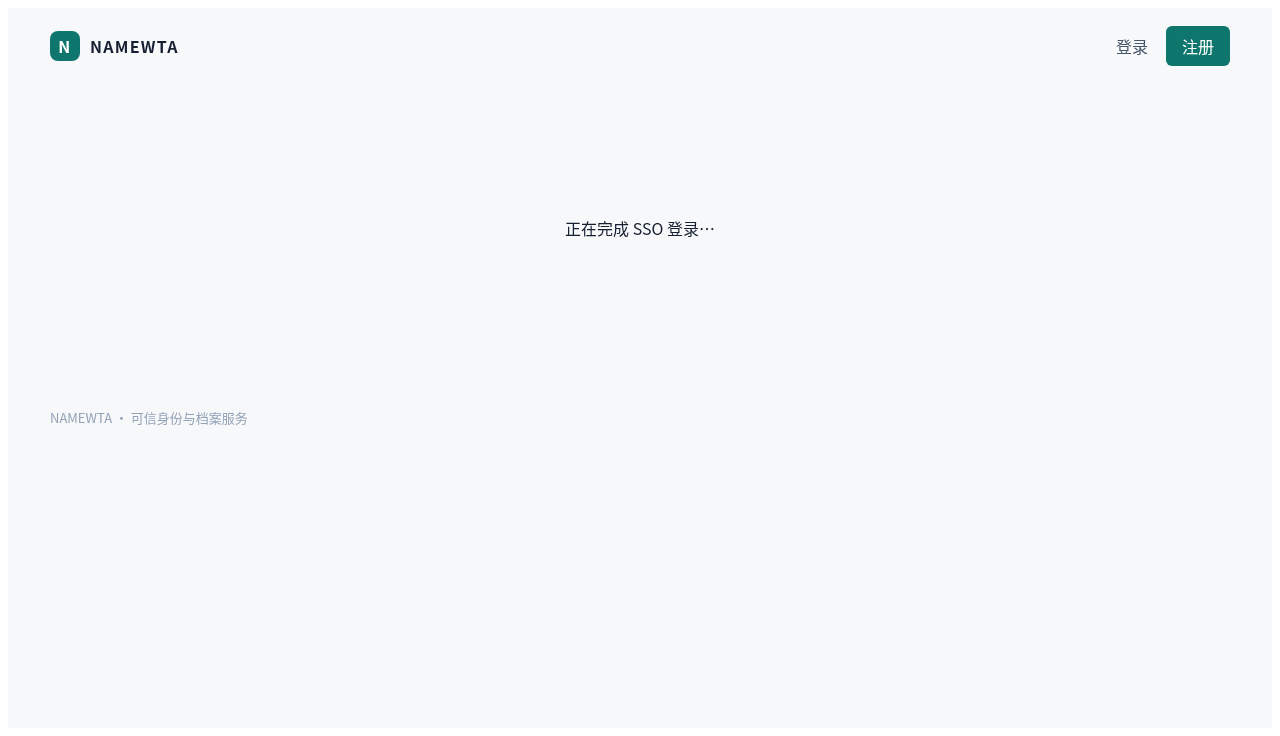
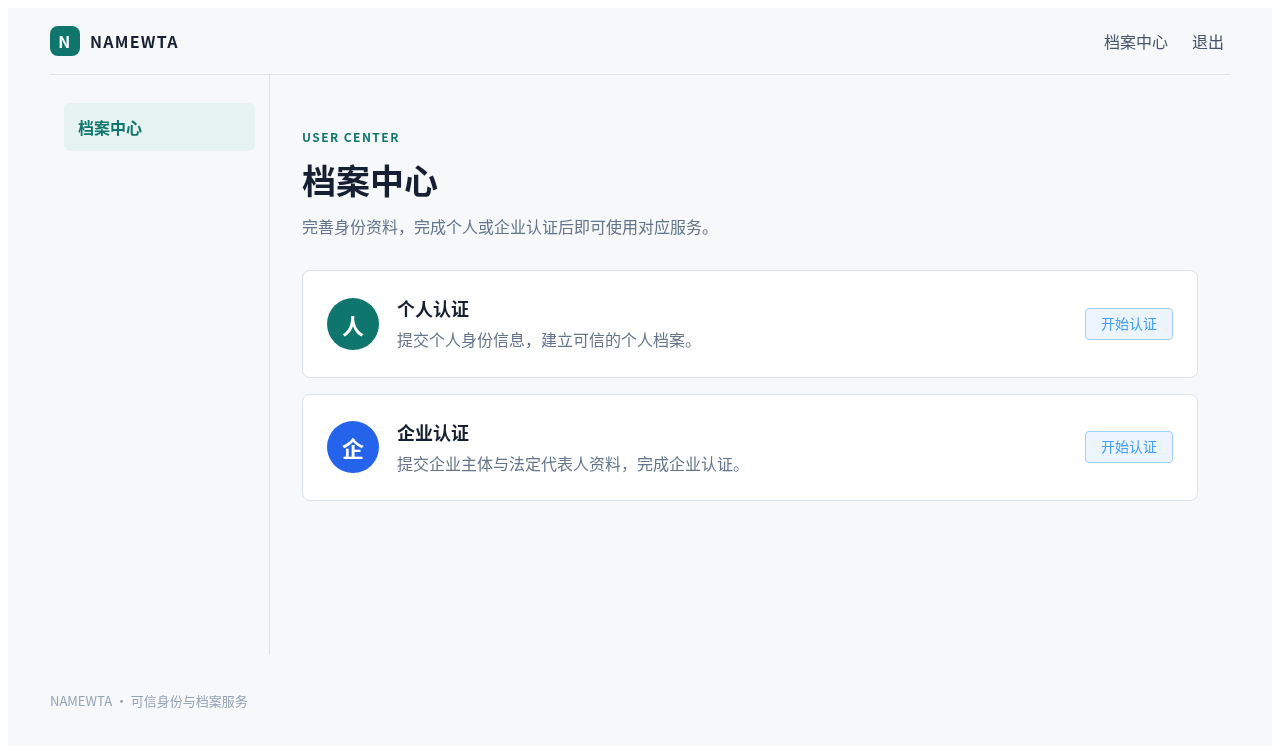
fix(sso): complete home login after FirstParty SSO
Home client access_path /home/** blocked getInfo/getRouters. Union
identity and profile APIs onto home tokens, write the callback token
into Pinia, and drop breadcrumb noRedirect so /profile is a real page.
E2E now waits off /sso/callback and asserts 退出 without 没有访问权限.

diff --git a/frontend/e2e/sso-three-gates.spec.ts b/frontend/e2e/sso-three-gates.spec.ts
@@ -100,13 +100,36 @@ test.describe('SSO three hard gates', () => {
     await expect(homeSso).toHaveClass(/is-circle/);
     await expect(homeSso.locator('svg')).toBeVisible();
     await homeSso.click();
-    await home.waitForURL(/127\.0\.0\.1:4176/, { timeout: 20_000 });
+    const sawSsoWeb = home
+      .waitForURL(/127\.0\.0\.1:4176/, { timeout: 20_000 })
+      .then(async () => {
+        await expect(home.locator('input[name="password"]')).toHaveCount(0);
+      })
+      .catch(() => undefined);
+    await home.waitForURL(url => {
+      const parsed = new URL(url);
+      return parsed.port === '4175';
+    }, { timeout: 30_000 });
+    await sawSsoWeb;
     await expect(home.locator('input[name="password"]')).toHaveCount(0);
-    await home.screenshot({ path: shot('sso-ac002-reuse-no-password.png'), fullPage: true });
-    await home.waitForURL(/127\.0\.0\.1:4175/, { timeout: 30_000 });
+    await home.waitForURL(url => {
+      const parsed = new URL(url);
+      return (
+        parsed.port === '4175' &&
+        parsed.pathname !== '/login' &&
+        parsed.pathname !== '/sso/callback' &&
+        !parsed.pathname.endsWith('/sso/callback')
+      );
+    }, { timeout: 30_000 });
     await expect
       .poll(async () => home.evaluate(() => window.localStorage.getItem('Home-Token')), { timeout: 20_000 })
       .toBeTruthy();
+    const homeHeader = home.locator('header');
+    await expect(homeHeader.getByRole('button', { name: '退出' })).toBeVisible({ timeout: 20_000 });
+    await expect(homeHeader.getByRole('link', { name: '登录', exact: true })).toHaveCount(0);
+    await expect(home.getByText('没有访问权限')).toHaveCount(0);
+    await expect(home).toHaveURL(/\/profile/);
+    await home.screenshot({ path: shot('sso-ac002-reuse-no-password.png'), fullPage: true });
     const homeToken = String(await home.evaluate(() => window.localStorage.getItem('Home-Token')));
     const homeClient = homeClientFromApi || extraClientId(homeToken);
     expect(adminClient).not.toEqual(homeClient);
@@ -119,6 +142,8 @@ test.describe('SSO three hard gates', () => {
       }
     });
     const crossBody = (await cross.json()) as { code?: number; msg?: string };
+    await expect(homeHeader.getByRole('button', { name: '退出' })).toBeVisible();
+    await expect(home.getByText('没有访问权限')).toHaveCount(0);
     await home.screenshot({ path: shot('sso-ac003-client-isolation.png'), fullPage: true });
     expect(crossBody.code).not.toBe(200);
     expect(adminClient).toBe(adminClientId);

diff --git a/frontend/apps/home-web/src/store/user.ts b/frontend/apps/home-web/src/store/user.ts
@@ -11,7 +11,15 @@ export const useUserStore = defineStore('home-user', () => {
   const nickname = ref('');
   const userId = ref<string | number>('');
   const login = async (input: Parameters<typeof identityAccessService.login>[0]) => { const value = await identityAccessService.login(input); token.value = value.accessToken; };
-  const getInfo = async () => { const info = await identityAccessService.getInfo(); const user = info.user as UserVO; roles.value = [...info.roles]; permissions.value = [...info.permissions]; nickname.value = user.nickName || user.userName; userId.value = user.userId; };
+  const getInfo = async () => {
+    token.value = getToken();
+    const info = await identityAccessService.getInfo();
+    const user = info.user as UserVO;
+    roles.value = [...info.roles];
+    permissions.value = [...info.permissions];
+    nickname.value = user.nickName || user.userName;
+    userId.value = user.userId;
+  };
   const logout = async () => { try { await identityAccessService.logout(); } finally { token.value = ''; roles.value = []; permissions.value = []; removeToken(); } };
   return { token, roles, permissions, nickname, userId, login, getInfo, logout, session };
 });

diff --git a/frontend/apps/home-web/src/views/SsoCallbackPage.test.ts b/frontend/apps/home-web/src/views/SsoCallbackPage.test.ts
@@ -1,0 +1,14 @@
+import { readFileSync } from 'node:fs';
+import { dirname, resolve } from 'node:path';
+import { fileURLToPath } from 'node:url';
+import { describe, expect, it } from 'vitest';
+
+const source = readFileSync(resolve(dirname(fileURLToPath(import.meta.url)), 'SsoCallbackPage.vue'), 'utf8');
+
+describe('home SSO callback', () => {
+  it('writes the business token into both session and the user store', () => {
+    expect(source).toContain('session.setToken(result.accessToken)');
+    expect(source).toContain('userStore.token = result.accessToken');
+    expect(source).toContain("router.replace('/profile')");
+  });
+});

diff --git a/frontend/apps/home-web/src/router/serverMenuAdapter.ts b/frontend/apps/home-web/src/router/serverMenuAdapter.ts
@@ -27,7 +27,7 @@ export function adaptServerMenuRoutes(routes: readonly ServerRouteNode<HomeRoute
       ...(route.alwaysShow !== undefined ? { alwaysShow: route.alwaysShow } : {}),
       ...(route.ext !== undefined ? { ext: route.ext } : {}),
       ...(route.permissions !== undefined ? { permissions: [...route.permissions] } : {}),
-      ...(route.redirect ? { redirect: route.redirect } : {}),
+      ...(route.redirect && route.redirect !== 'noRedirect' ? { redirect: route.redirect } : {}),
       ...(route.query ? { query: route.query } : {})
     };
     if (route.children) {

diff --git a/frontend/apps/home-web/src/views/SsoCallbackPage.vue b/frontend/apps/home-web/src/views/SsoCallbackPage.vue
@@ -6,13 +6,16 @@ import { onMounted } from 'vue';
 import { useRouter } from 'vue-router';
 import { homeSso } from '@/application/sso';
 import { session } from '@/application/session';
+import { useUserStore } from '@/store/user';
 
 const router = useRouter();
+const userStore = useUserStore();
 
 onMounted(async () => {
   try {
     const result = await homeSso.handleCallback(window.location.search);
     session.setToken(result.accessToken);
+    userStore.token = result.accessToken;
     await router.replace('/profile');
   } catch {
     await router.replace('/login');

diff --git a/frontend/apps/home-web/src/store/user.sso-token.test.ts b/frontend/apps/home-web/src/store/user.sso-token.test.ts
@@ -1,0 +1,13 @@
+import { readFileSync } from 'node:fs';
+import { dirname, resolve } from 'node:path';
+import { fileURLToPath } from 'node:url';
+import { describe, expect, it } from 'vitest';
+
+const source = readFileSync(resolve(dirname(fileURLToPath(import.meta.url)), 'user.ts'), 'utf8');
+
+describe('home user store SSO session', () => {
+  it('hydrates pinia token from Home-Token before getInfo', () => {
+    expect(source).toContain('token.value = getToken()');
+    expect(source).toContain('identityAccessService.getInfo()');
+  });
+});

diff --git a/frontend/apps/home-web/src/router/serverMenuAdapter.test.ts b/frontend/apps/home-web/src/router/serverMenuAdapter.test.ts
@@ -1,0 +1,12 @@
+import { readFileSync } from 'node:fs';
+import { dirname, resolve } from 'node:path';
+import { fileURLToPath } from 'node:url';
+import { describe, expect, it } from 'vitest';
+
+const source = readFileSync(resolve(dirname(fileURLToPath(import.meta.url)), 'serverMenuAdapter.ts'), 'utf8');
+
+describe('adaptServerMenuRoutes', () => {
+  it('does not treat breadcrumb noRedirect as a Vue route redirect', () => {
+    expect(source).toContain("route.redirect !== 'noRedirect'");
+  });
+});

diff --git a/backend/wta-modules/wta-system/src/main/java/org/namewta/system/sso/ClientAccessPaths.java b/backend/wta-modules/wta-system/src/main/java/org/namewta/system/sso/ClientAccessPaths.java
@@ -1,0 +1,70 @@
+package org.namewta.system.sso;
+
+import org.namewta.common.core.utils.StringUtils;
+
+import java.util.ArrayList;
+import java.util.List;
+
+/**
+ * 将 sys_client.access_path 解析为 Token extras 使用的规则。
+ * home-web 登录后会请求身份接口，不能只留不存在的 {@code /home/**}。
+ */
+public final class ClientAccessPaths {
+
+    static final String IDENTITY_GET_INFO = "/system/user/getInfo";
+    static final String IDENTITY_MENUS = "/system/menu/getRouters";
+    static final String AUTH_LOGOUT = "/auth/logout";
+    static final String PROFILE = "/profile/**";
+
+    private static final String SEPARATOR_REGEX = "[,;\\r\\n]+";
+    private static final List<String> HOME_IDENTITY_APIS = List.of(
+        IDENTITY_GET_INFO, IDENTITY_MENUS, AUTH_LOGOUT, PROFILE);
+
+    private ClientAccessPaths() {
+    }
+
+    /**
+     * home 客户端在已有白名单上并入身份/档案接口；其它 Client 原样返回。
+     *
+     * @param clientKey  客户端 key
+     * @param accessPath 已配置白名单
+     * @return Token extras 使用的规则串
+     */
+    public static String resolve(String clientKey, String accessPath) {
+        if (!"home".equalsIgnoreCase(StringUtils.trim(clientKey))) {
+            return accessPath;
+        }
+        if (StringUtils.isBlank(accessPath)) {
+            return accessPath;
+        }
+        List<String> rules = new ArrayList<>(StringUtils.str2List(accessPath, SEPARATOR_REGEX, true, true));
+        for (String needed : HOME_IDENTITY_APIS) {
+            if (!allows(String.join(",", rules), sampleRequest(needed))) {
+                rules.add(needed);
+            }
+        }
+        return String.join(",", rules);
+    }
+
+    /**
+     * 与 {@code SecurityConfig} 相同的路径匹配：空白名单表示不限制。
+     *
+     * @param accessPath  规则串
+     * @param requestPath 请求路径
+     * @return 是否允许
+     */
+    public static boolean allows(String accessPath, String requestPath) {
+        if (StringUtils.isBlank(accessPath)) {
+            return true;
+        }
+        List<String> rules = StringUtils.str2List(accessPath, SEPARATOR_REGEX, true, true);
+        return StringUtils.matches(requestPath, rules);
+    }
+
+    private static String sampleRequest(String pattern) {
+        if (pattern.endsWith("/**")) {
+            return pattern.substring(0, pattern.length() - 3) + "/person/application";
+        }
+        return pattern;
+    }
+}

diff --git a/backend/wta-modules/wta-system/src/test/java/org/namewta/system/sso/ClientAccessPathsTest.java b/backend/wta-modules/wta-system/src/test/java/org/namewta/system/sso/ClientAccessPathsTest.java
@@ -1,0 +1,50 @@
+package org.namewta.system.sso;
+
+import org.junit.jupiter.api.Tag;
+import org.junit.jupiter.api.Test;
+import org.namewta.sso.api.SsoClientView;
+import org.namewta.system.domain.vo.SysClientVo;
+import org.namewta.system.service.ISysClientService;
+
+import static org.junit.jupiter.api.Assertions.assertFalse;
+import static org.junit.jupiter.api.Assertions.assertTrue;
+import static org.mockito.Mockito.mock;
+import static org.mockito.Mockito.when;
+
+@Tag("local")
+@Tag("dev")
+class ClientAccessPathsTest {
+
+    @Test
+    void rawHomeGlobDoesNotAllowIdentityApis() {
+        assertFalse(ClientAccessPaths.allows("/home/**", "/system/user/getInfo"));
+        assertFalse(ClientAccessPaths.allows("/home/**", "/system/menu/getRouters"));
+        assertFalse(ClientAccessPaths.allows("/home/**", "/profile/person/application"));
+    }
+
+    @Test
+    void homeResolveUnionsIdentityApisHomeWebCallsAndKeepsAdminIsolation() {
+        String resolved = ClientAccessPaths.resolve("home", "/home/**");
+        assertTrue(ClientAccessPaths.allows(resolved, "/system/user/getInfo"));
+        assertTrue(ClientAccessPaths.allows(resolved, "/system/menu/getRouters"));
+        assertTrue(ClientAccessPaths.allows(resolved, "/auth/logout"));
+        assertTrue(ClientAccessPaths.allows(resolved, "/profile/person/application"));
+        assertFalse(ClientAccessPaths.allows(resolved, "/system/client/list"));
+        assertFalse(ClientAccessPaths.allows(resolved, "/system/user/list"));
+    }
+
+    @Test
+    void catalogExposesExpandedHomeAccessPathForSsoTokenExtras() {
+        ISysClientService clients = mock(ISysClientService.class);
+        SysClientVo vo = new SysClientVo();
+        vo.setId(1762000000000000002L);
+        vo.setClientId("428a8310cd442757ae699df5d894f051");
+        vo.setClientKey("home");
+        vo.setAccessPath("/home/**");
+        when(clients.queryByClientId("428a8310cd442757ae699df5d894f051")).thenReturn(vo);
+        SsoClientView view = new SystemSsoClientCatalog(clients).findByClientId("428a8310cd442757ae699df5d894f051");
+        assertTrue(ClientAccessPaths.allows(view.getAccessPath(), "/system/user/getInfo"));
+        assertTrue(ClientAccessPaths.allows(view.getAccessPath(), "/system/menu/getRouters"));
+        assertFalse(ClientAccessPaths.allows(view.getAccessPath(), "/system/client/list"));
+    }
+}

diff --git a/backend/wta-admin/src/test/java/org/namewta/web/service/HomeClientLoginAccessPathTest.java b/backend/wta-admin/src/test/java/org/namewta/web/service/HomeClientLoginAccessPathTest.java
@@ -1,0 +1,35 @@
+package org.namewta.web.service;
+
+import cn.dev33.satoken.stp.parameter.SaLoginParameter;
+import org.junit.jupiter.api.Tag;
+import org.junit.jupiter.api.Test;
+import org.namewta.common.satoken.utils.LoginHelper;
+import org.namewta.system.domain.vo.SysClientVo;
+import org.namewta.system.sso.ClientAccessPaths;
+
+import static org.junit.jupiter.api.Assertions.assertFalse;
+import static org.junit.jupiter.api.Assertions.assertTrue;
+
+@Tag("local")
+@Tag("dev")
+class HomeClientLoginAccessPathTest {
+
+    @Test
+    void passwordLoginExtrasAllowHomeIdentityApis() {
+        SysClientVo home = new SysClientVo();
+        home.setClientKey("home");
+        home.setClientId("428a8310cd442757ae699df5d894f051");
+        home.setAccessPath("/home/**");
+        home.setTimeout(604800L);
+        home.setActiveTimeout(1800L);
+        home.setDeviceType("pc");
+        SaLoginParameter parameter = IAuthStrategy.buildLoginParameter(home);
+        Object extra = parameter.getExtraData() == null
+            ? null
+            : parameter.getExtraData().get(LoginHelper.CLIENT_ACCESS_PATH_KEY);
+        String accessPath = extra == null ? null : String.valueOf(extra);
+        assertTrue(ClientAccessPaths.allows(accessPath, "/system/user/getInfo"));
+        assertTrue(ClientAccessPaths.allows(accessPath, "/system/menu/getRouters"));
+        assertFalse(ClientAccessPaths.allows(accessPath, "/system/client/list"));
+    }
+}

diff --git a/backend/wta-modules/wta-sso/src/test/java/org/namewta/sso/support/SsoTokenExtrasTest.java b/backend/wta-modules/wta-sso/src/test/java/org/namewta/sso/support/SsoTokenExtrasTest.java
@@ -10,6 +10,7 @@ import org.junit.jupiter.api.Test;
 import static org.junit.jupiter.api.Assertions.assertEquals;
 import static org.junit.jupiter.api.Assertions.assertNotEquals;
 import static org.junit.jupiter.api.Assertions.assertThrows;
+import static org.junit.jupiter.api.Assertions.assertTrue;
 
 @Tag("local")
 @Tag("dev")
@@ -27,6 +28,16 @@ class SsoTokenExtrasTest {
             : parameter.getExtraData().get(LoginHelper.CLIENT_KEY);
         assertEquals("e5cd7e4891bf95d1d19206ce24a7b32e", extra);
         assertNotEquals("sso", extra);
+        SsoClientView home = new SsoClientView();
+        home.setId(2L);
+        home.setClientId("428a8310cd442757ae699df5d894f051");
+        home.setClientKey("home");
+        home.setAccessPath("/home/**,/system/user/getInfo,/system/menu/getRouters,/auth/logout,/profile/**");
+        Object homePath = SsoTokenExtras.bind(home).getExtraData() == null
+            ? null
+            : SsoTokenExtras.bind(home).getExtraData().get(LoginHelper.CLIENT_ACCESS_PATH_KEY);
+        assertTrue(String.valueOf(homePath).contains("/system/user/getInfo"));
+        assertTrue(String.valueOf(homePath).contains("/system/menu/getRouters"));
 
         SsoClientView sso = new SsoClientView();
         sso.setClientId("sso");

diff --git a/backend/wta-admin/src/main/java/org/namewta/web/service/IAuthStrategy.java b/backend/wta-admin/src/main/java/org/namewta/web/service/IAuthStrategy.java
@@ -7,6 +7,7 @@ import org.namewta.common.core.exception.ServiceException;
 import org.namewta.common.core.utils.SpringUtils;
 import org.namewta.common.satoken.utils.LoginHelper;
 import org.namewta.system.domain.vo.SysClientVo;
+import org.namewta.system.sso.ClientAccessPaths;
 import org.namewta.web.domain.vo.LoginVo;
 
 import java.util.function.Consumer;
@@ -62,7 +63,8 @@ public interface IAuthStrategy {
         model.setActiveTimeout(client.getActiveTimeout());
         model.setExtra(LoginHelper.CLIENT_KEY, client.getClientId());
         model.setExtra(LoginHelper.CLIENT_PK_KEY, client.getId());
-        model.setExtra(LoginHelper.CLIENT_ACCESS_PATH_KEY, client.getAccessPath());
+        model.setExtra(LoginHelper.CLIENT_ACCESS_PATH_KEY,
+            ClientAccessPaths.resolve(client.getClientKey(), client.getAccessPath()));
         model.setExtra(LoginHelper.CLIENT_IP_WHITELIST_KEY, client.getIpWhitelist());
         if (ObjectUtil.isNotNull(customizer)) {
             customizer.accept(model);
